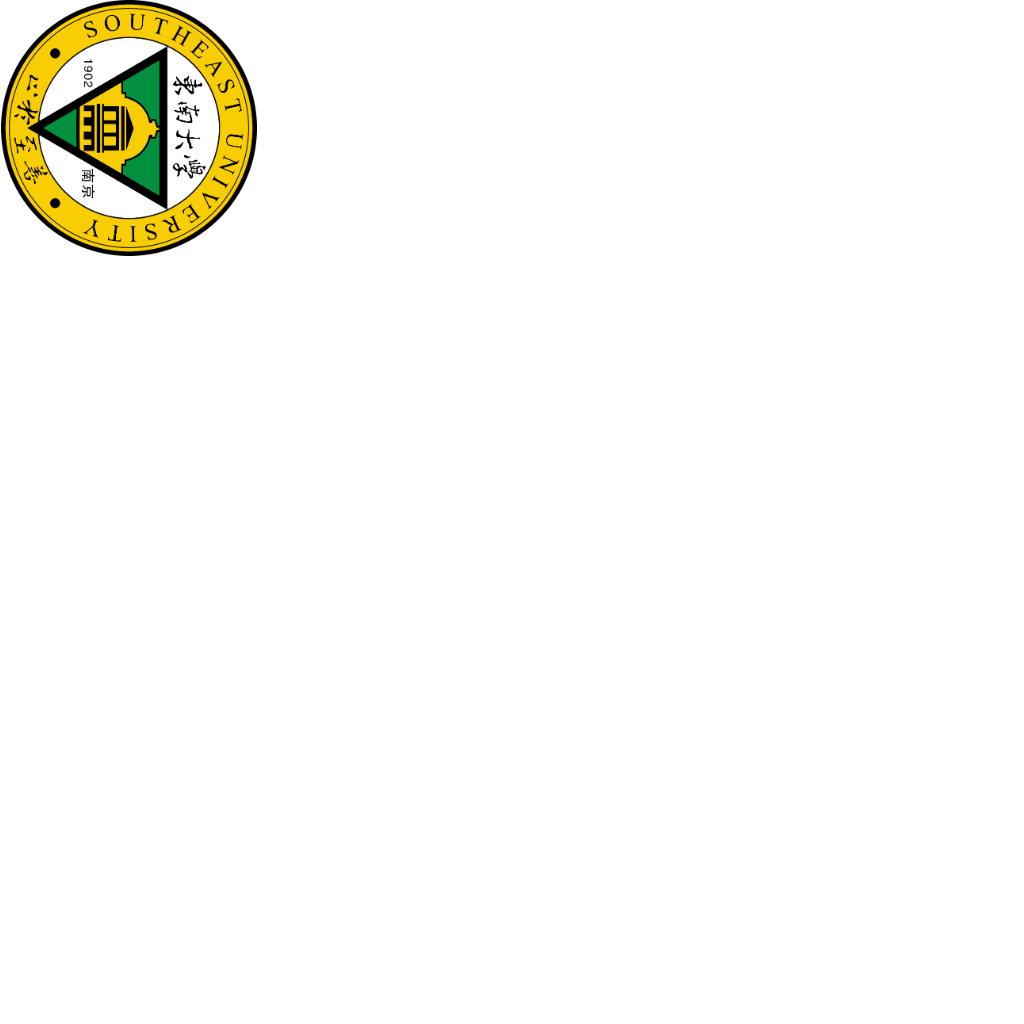
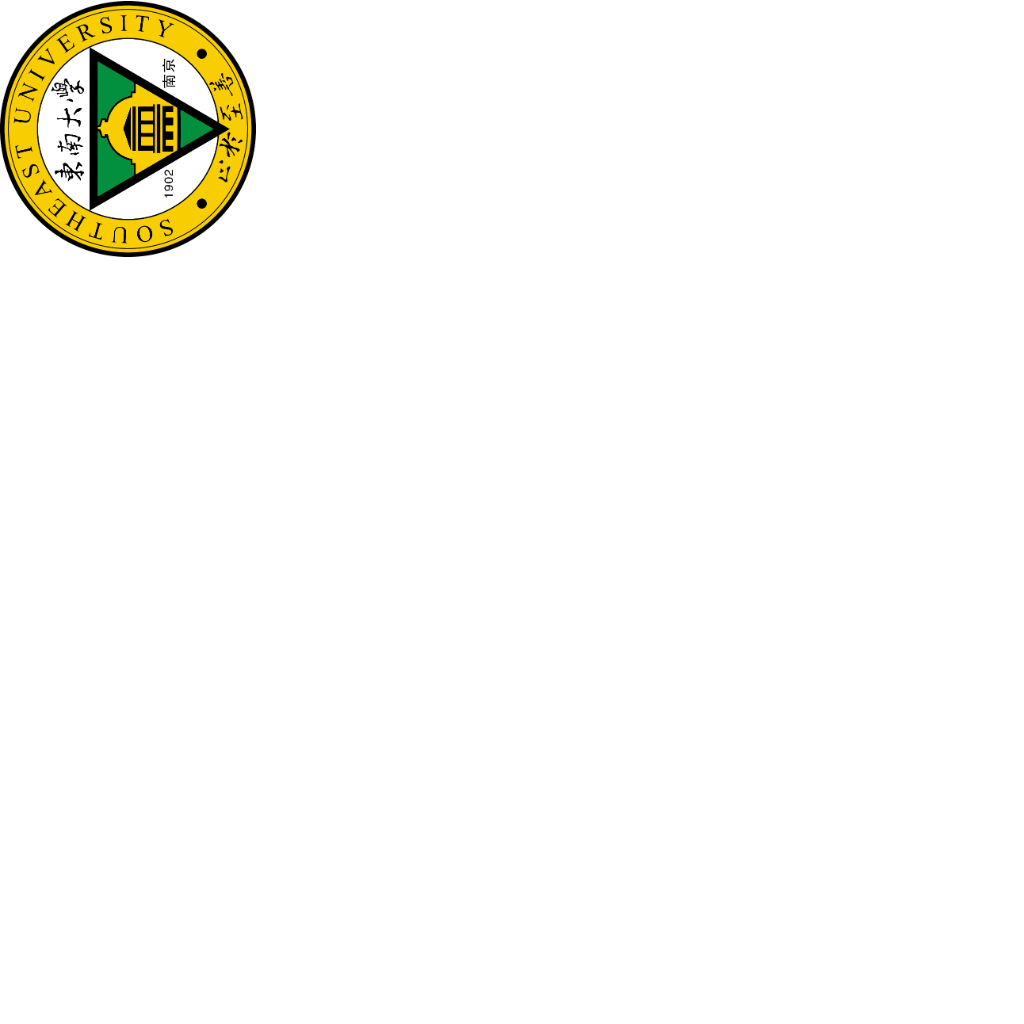
finished

Changed region(s): [[0.0, 0.0, 0.25, 0.25]]

diff --git a/labwork1/affine_inverse.py b/labwork1/affine_inverse.py
@@ -60,8 +60,8 @@ Image.fromarray(inverted_translated_image).save('../resources/seu_translated_inv
 # 旋转变换
 angle = 90  # 旋转角度（度）
 theta = np.radians(angle)  # 转换为弧度
-rotation_matrix = np.array([[np.cos(theta), -np.sin(theta), 0],
-                             [np.sin(theta), np.cos(theta), 0],
+rotation_matrix = np.array([[np.cos(theta), np.sin(theta), 0],
+                             [-np.sin(theta), np.cos(theta), 0],
                              [0, 0, 1]])
 # 计算图像中心坐标
 center_x, center_y = original_width / 2, original_height / 2
@@ -83,8 +83,8 @@ rotated_image = np.clip(rotated_image, 0, 255).astype(np.uint8)
 Image.fromarray(rotated_image).save('../resources/seu_rotated.png')
 
 # 旋转的逆变换矩阵
-inverted_rotation_matrix = np.array([[np.cos(-theta), -np.sin(-theta), 0],
-                                      [np.sin(-theta), np.cos(-theta), 0],
+inverted_rotation_matrix = np.array([[np.cos(-theta), np.sin(-theta), 0],
+                                      [-np.sin(-theta), np.cos(-theta), 0],
                                       [0, 0, 1]])
 # 计算逆变换的组合矩阵
 inverted_combined_matrix = translate_back @ (inverted_rotation_matrix @ translate_to_origin)

diff --git a/labwork1/registration.py b/labwork1/registration.py
@@ -71,7 +71,7 @@ translated_registration_image.save('../resources/seu_translated_registration_ima
 rotated_T = compute_registration_transform(points_initial, points_rotated)
 inversed_rotated_T = np.linalg.inv(rotated_T)
 
-rotated_registration_image = affine_transform_plus(rotated_image_array, rotated_T)
+rotated_registration_image = affine_transform_plus(rotated_image_array, inversed_rotated_T)
 rotated_registration_image = Image.fromarray(rotated_registration_image)
 rotated_registration_image.save('../resources/seu_rotated_registration_image.png')
 
